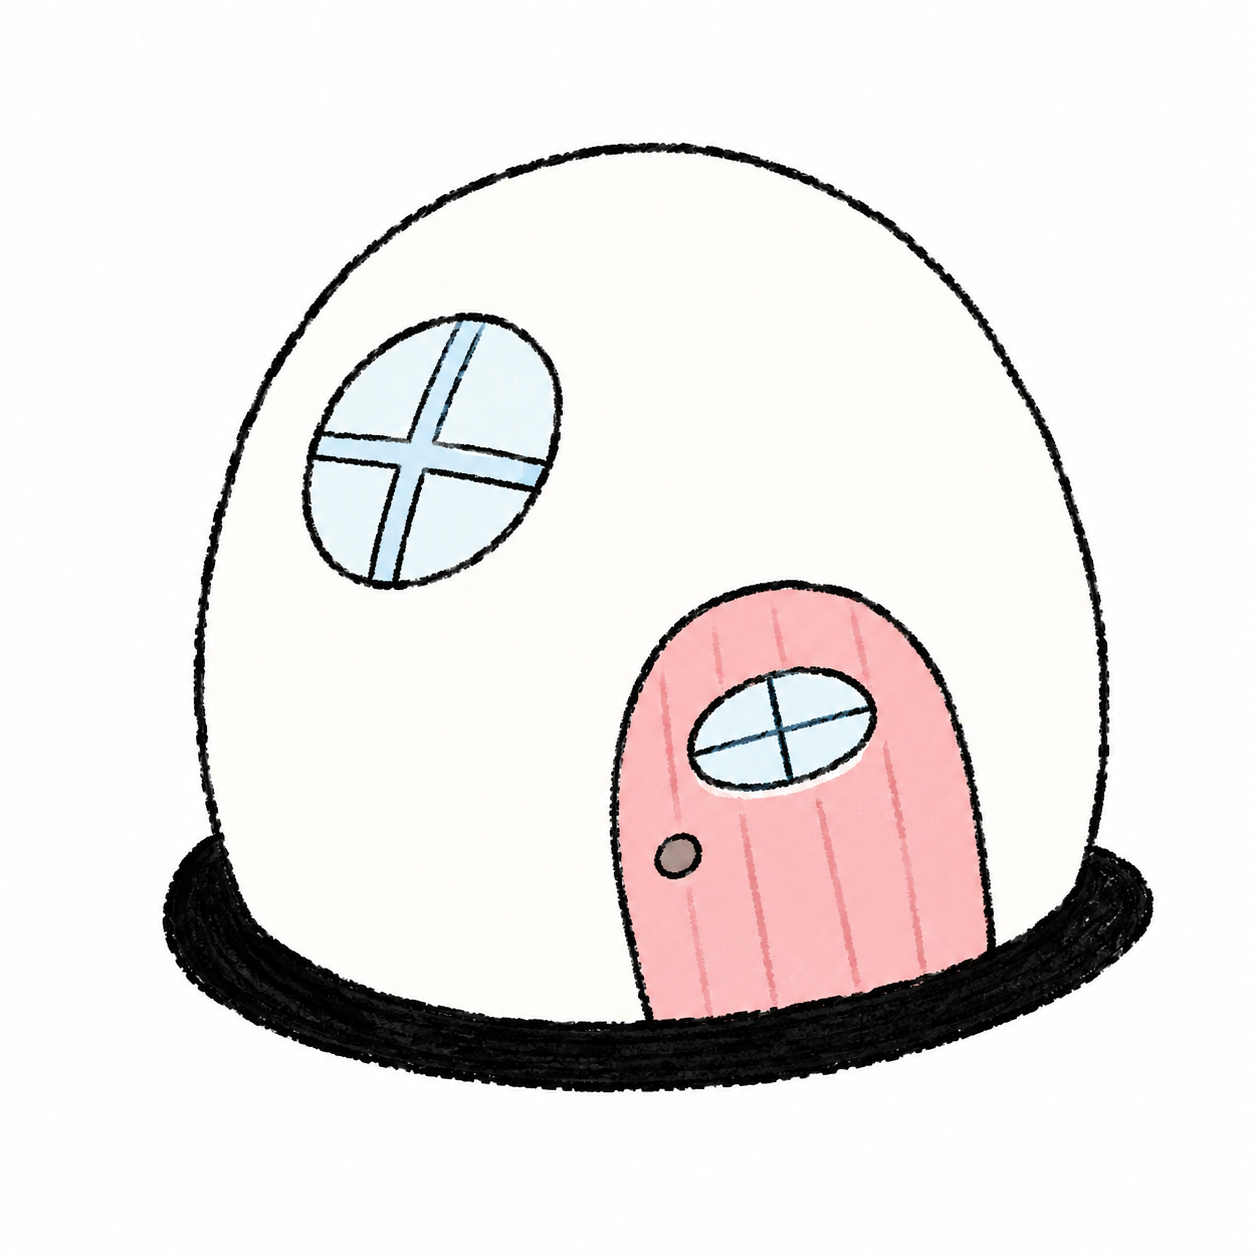
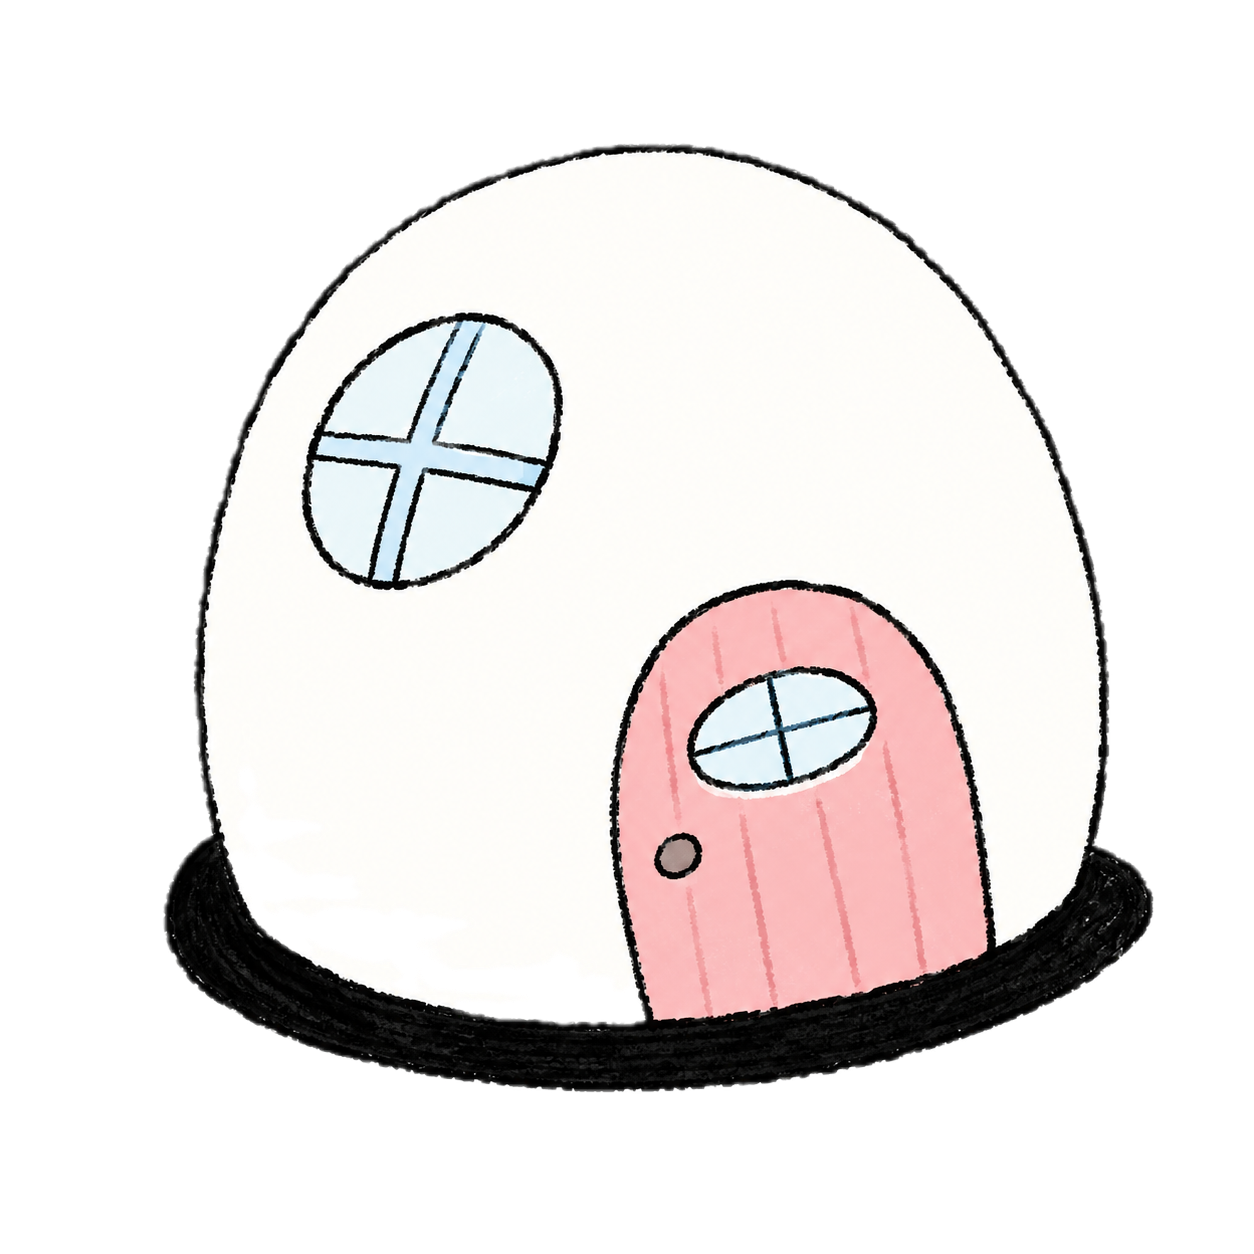
feat(island-map): 새 섬 아트 기준 마스크·맵 데이터 재캘리브레이션
새 섬(1417x1110) 상판에 맞춰 기본 마스크(710,465/590x370)와 26x26 유도 그리드 520칸으로 갱신.

diff --git a/src/features/edit-island-map/model/store.test.ts b/src/features/edit-island-map/model/store.test.ts
@@ -38,14 +38,14 @@ describe('useMapStore', () => {
 
 describe('ellipseMask', () => {
   it('초기값', () => {
-    expect(useMapStore.getState().ellipseMask).toEqual({ cx: 825, cy: 550, rx: 700, ry: 430 });
+    expect(useMapStore.getState().ellipseMask).toEqual({ cx: 710, cy: 465, rx: 590, ry: 370 });
   });
 
   it('setEllipseMask 부분 갱신', () => {
     useMapStore.getState().setEllipseMask({ rx: 500 });
     const { ellipseMask } = useMapStore.getState();
     expect(ellipseMask.rx).toBe(500);
-    expect(ellipseMask.cy).toBe(550);
+    expect(ellipseMask.cy).toBe(465);
   });
 
   it('applyEllipseMask가 grid를 마스크에 맞춰 유도하고 placeable 교체', () => {

diff --git a/src/features/edit-island-map/model/store.ts b/src/features/edit-island-map/model/store.ts
@@ -16,7 +16,7 @@ interface MapState {
 export const useMapStore = create<MapState>((set) => ({
   grid: defaultIslandMap.grid,
   placeable: toPlaceableSet(defaultIslandMap.placeable),
-  ellipseMask: { cx: 825, cy: 550, rx: 700, ry: 430 },
+  ellipseMask: { cx: 710, cy: 465, rx: 590, ry: 370 },
   gridN: 26,
   setGridN: (n) => set({ gridN: n }),
   paintCell: (col, row, target) =>